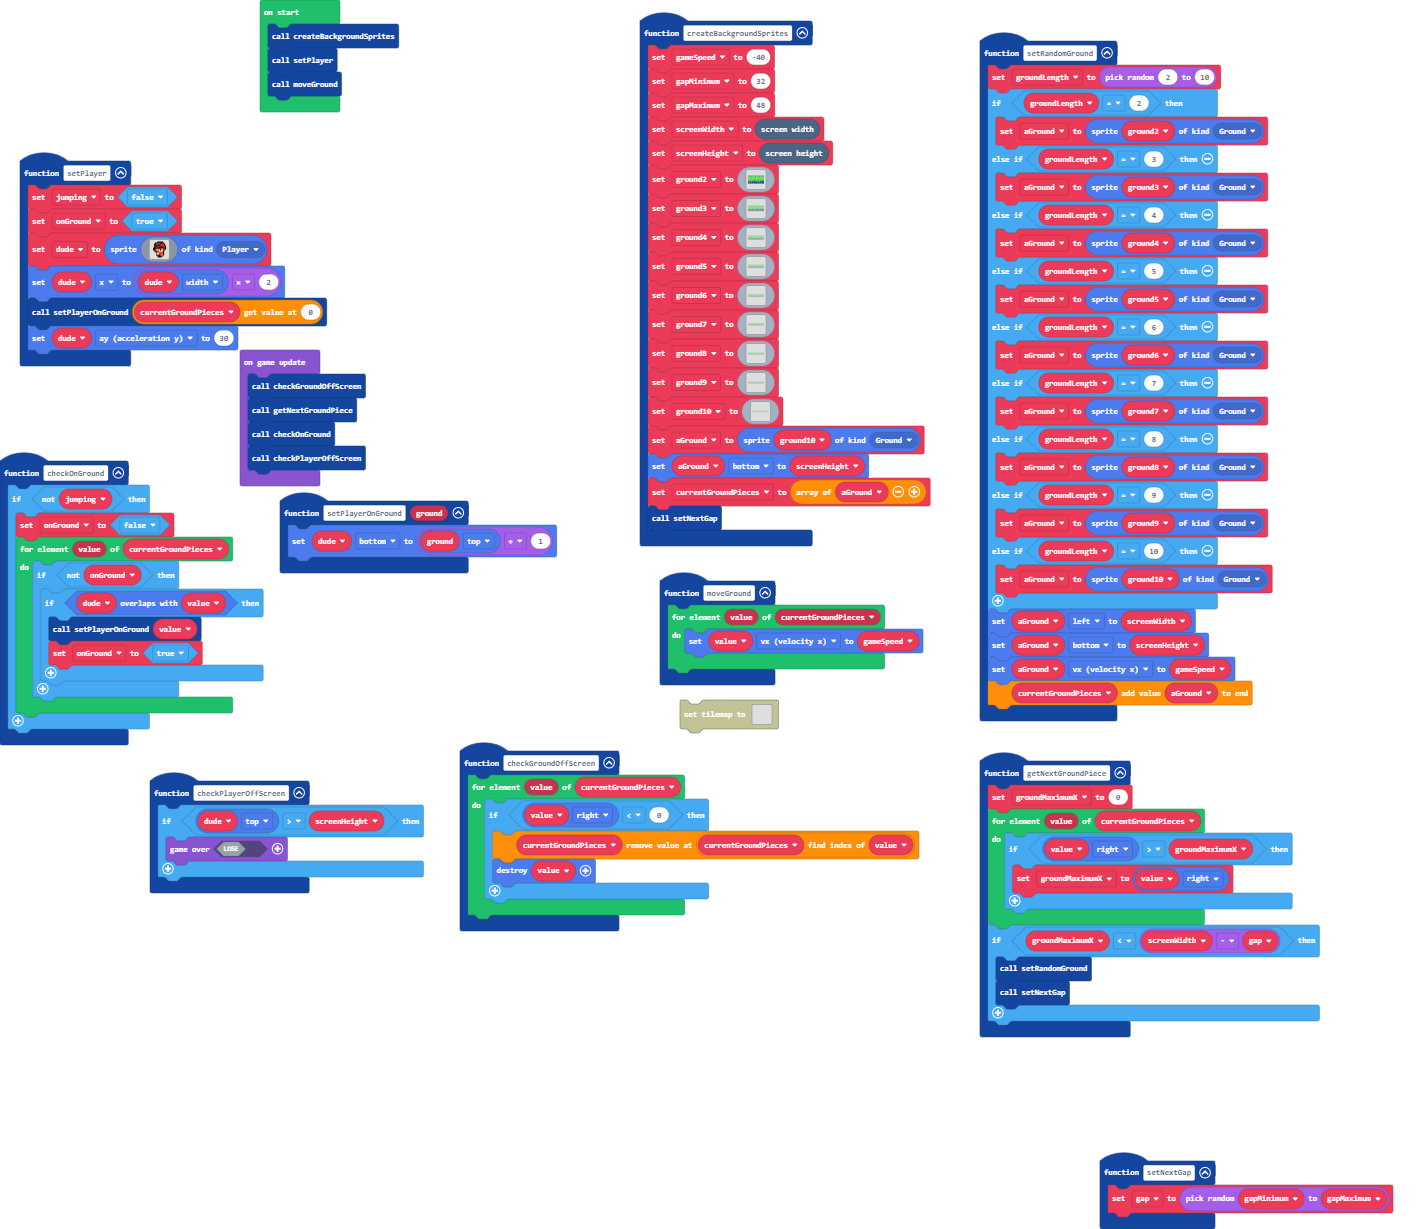
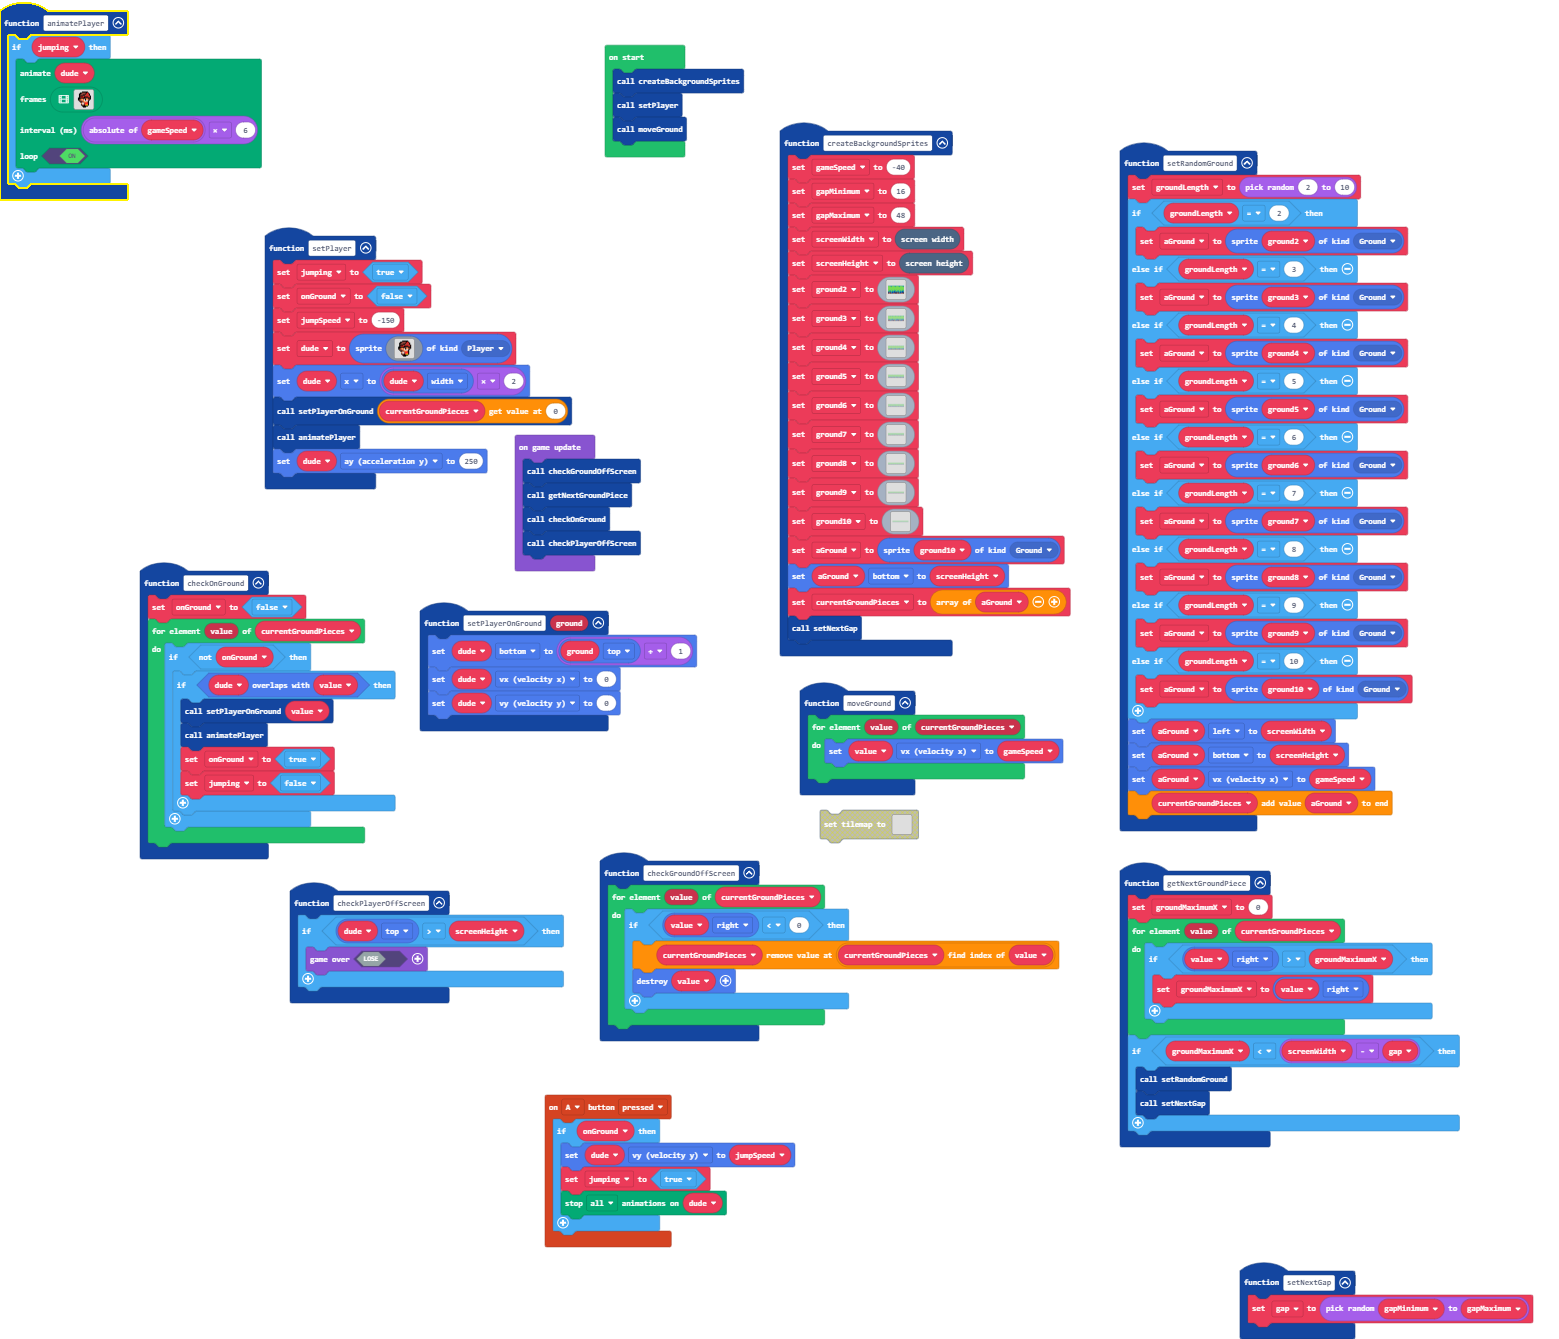
Player is animated when walking and stops when jumping

diff --git a/main.ts b/main.ts
@@ -1,9 +1,93 @@
+enum ActionKind {
+    Walking,
+    Idle,
+    Jumping
+}
 namespace SpriteKind {
     export const Ground = SpriteKind.create()
 }
+function animatePlayer () {
+    if (jumping) {
+        animation.runImageAnimation(
+        dude,
+        [img`
+            . . . . . . f f f f f f . . . . 
+            . . . . f f e e e e f 2 f . . . 
+            . . . f f e e e e f 2 2 2 f . . 
+            . . . f e e e f f e e e e f . . 
+            . . . f f f f e e 2 2 2 2 e f . 
+            . . . f e 2 2 2 f f f f e 2 f . 
+            . . f f f f f f f e e e f f f . 
+            . . f f e 4 4 e b f 4 4 e e f . 
+            . . f e e 4 d 4 1 f d d e f . . 
+            . . . f e e e 4 d d d d f . . . 
+            . . . . f f e e 4 4 4 e f . . . 
+            . . . . . 4 d d e 2 2 2 f . . . 
+            . . . . . e d d e 2 2 2 f . . . 
+            . . . . . f e e f 4 5 5 f . . . 
+            . . . . . . f f f f f f . . . . 
+            . . . . . . . f f f . . . . . . 
+            `,img`
+            . . . . . . . . . . . . . . . . 
+            . . . . . . f f f f f f . . . . 
+            . . . . f f e e e e f 2 f . . . 
+            . . . f f e e e e f 2 2 2 f . . 
+            . . . f e e e f f e e e e f . . 
+            . . . f f f f e e 2 2 2 2 e f . 
+            . . . f e 2 2 2 f f f f e 2 f . 
+            . . f f f f f f f e e e f f f . 
+            . . f f e 4 4 e b f 4 4 e e f . 
+            . . f e e 4 d 4 1 f d d e f . . 
+            . . . f e e e e e d d d f . . . 
+            . . . . . f 4 d d e 4 e f . . . 
+            . . . . . f e d d e 2 2 f . . . 
+            . . . . f f f e e f 5 5 f f . . 
+            . . . . f f f f f f f f f f . . 
+            . . . . . f f . . . f f f . . . 
+            `,img`
+            . . . . . . f f f f f f . . . . 
+            . . . . f f e e e e f 2 f . . . 
+            . . . f f e e e e f 2 2 2 f . . 
+            . . . f e e e f f e e e e f . . 
+            . . . f f f f e e 2 2 2 2 e f . 
+            . . . f e 2 2 2 f f f f e 2 f . 
+            . . f f f f f f f e e e f f f . 
+            . . f f e 4 4 e b f 4 4 e e f . 
+            . . f e e 4 d 4 1 f d d e f . . 
+            . . . f e e e 4 d d d d f . . . 
+            . . . . f f e e 4 4 4 e f . . . 
+            . . . . . 4 d d e 2 2 2 f . . . 
+            . . . . . e d d e 2 2 2 f . . . 
+            . . . . . f e e f 4 5 5 f . . . 
+            . . . . . . f f f f f f . . . . 
+            . . . . . . . f f f . . . . . . 
+            `,img`
+            . . . . . . . . . . . . . . . . 
+            . . . . . . f f f f f f . . . . 
+            . . . . f f e e e e f 2 f . . . 
+            . . . f f e e e e f 2 2 2 f . . 
+            . . . f e e e f f e e e e f . . 
+            . . . f f f f e e 2 2 2 2 e f . 
+            . . . f e 2 2 2 f f f f e 2 f . 
+            . . f f f f f f f e e e f f f . 
+            . . f f e 4 4 e b f 4 4 e e f . 
+            . . f e e 4 d 4 1 f d d e f . . 
+            . . . f e e e 4 d d d d f . . . 
+            . . . . 4 d d e 4 4 4 e f . . . 
+            . . . . e d d e 2 2 2 2 f . . . 
+            . . . . f e e f 4 4 5 5 f f . . 
+            . . . . f f f f f f f f f f . . 
+            . . . . . f f . . . f f f . . . 
+            `],
+        Math.abs(gameSpeed) * 6,
+        true
+        )
+    }
+}
 function setPlayer () {
-    jumping = false
-    onGround = true
+    jumping = true
+    onGround = false
+    jumpSpeed = -150
     dude = sprites.create(img`
         . . . . . . f f f f f f . . . . 
         . . . . f f e e e e f 2 f . . . 
@@ -24,8 +108,16 @@ function setPlayer () {
         `, SpriteKind.Player)
     dude.x = dude.width * 2
     setPlayerOnGround(currentGroundPieces[0])
-    dude.ay = 30
+    animatePlayer()
+    dude.ay = 250
 }
+controller.A.onEvent(ControllerButtonEvent.Pressed, function () {
+    if (onGround) {
+        dude.vy = jumpSpeed
+        jumping = true
+        animation.stopAnimation(animation.AnimationTypes.All, dude)
+    }
+})
 function checkGroundOffScreen () {
     for (let value of currentGroundPieces) {
         if (value.right < 0) {
@@ -48,7 +140,7 @@ function getNextGroundPiece () {
 }
 function createBackgroundSprites () {
     gameSpeed = -40
-    gapMinimum = 32
+    gapMinimum = 16
     gapMaximum = 48
     screenWidth = scene.screenWidth()
     screenHeight = scene.screenHeight()
@@ -220,14 +312,14 @@ function createBackgroundSprites () {
     setNextGap()
 }
 function checkOnGround () {
-    if (!(jumping)) {
-        onGround = false
-        for (let value of currentGroundPieces) {
-            if (!(onGround)) {
-                if (dude.overlapsWith(value)) {
-                    setPlayerOnGround(value)
-                    onGround = true
-                }
+    onGround = false
+    for (let value of currentGroundPieces) {
+        if (!(onGround)) {
+            if (dude.overlapsWith(value)) {
+                setPlayerOnGround(value)
+                animatePlayer()
+                onGround = true
+                jumping = false
             }
         }
     }
@@ -273,6 +365,8 @@ function checkPlayerOffScreen () {
 }
 function setPlayerOnGround (ground: Sprite) {
     dude.bottom = ground.top + 1
+    dude.vx = 0
+    dude.vy = 0
 }
 let groundLength = 0
 let aGround: Sprite = null
@@ -288,13 +382,14 @@ let ground2: Image = null
 let screenHeight = 0
 let gapMaximum = 0
 let gapMinimum = 0
-let gameSpeed = 0
 let gap = 0
 let screenWidth = 0
 let groundMaximumX = 0
 let currentGroundPieces: Sprite[] = []
-let dude: Sprite = null
+let jumpSpeed = 0
 let onGround = false
+let gameSpeed = 0
+let dude: Sprite = null
 let jumping = false
 createBackgroundSprites()
 setPlayer()
